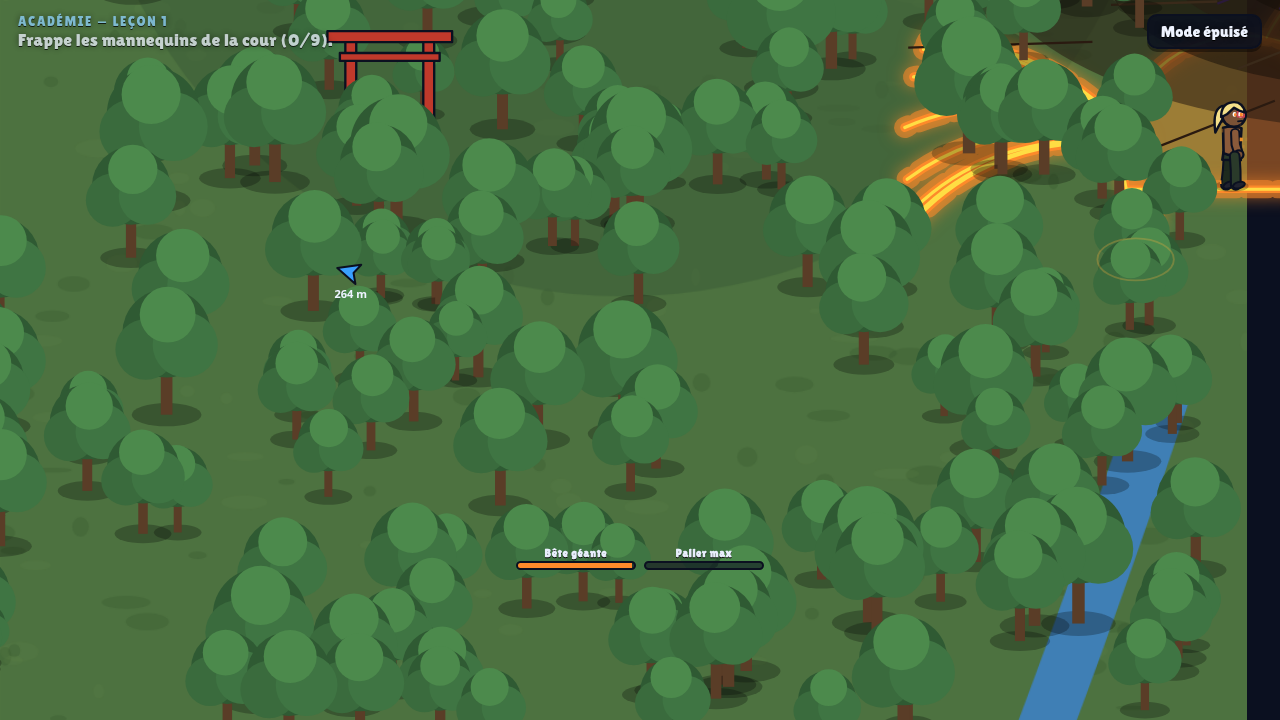
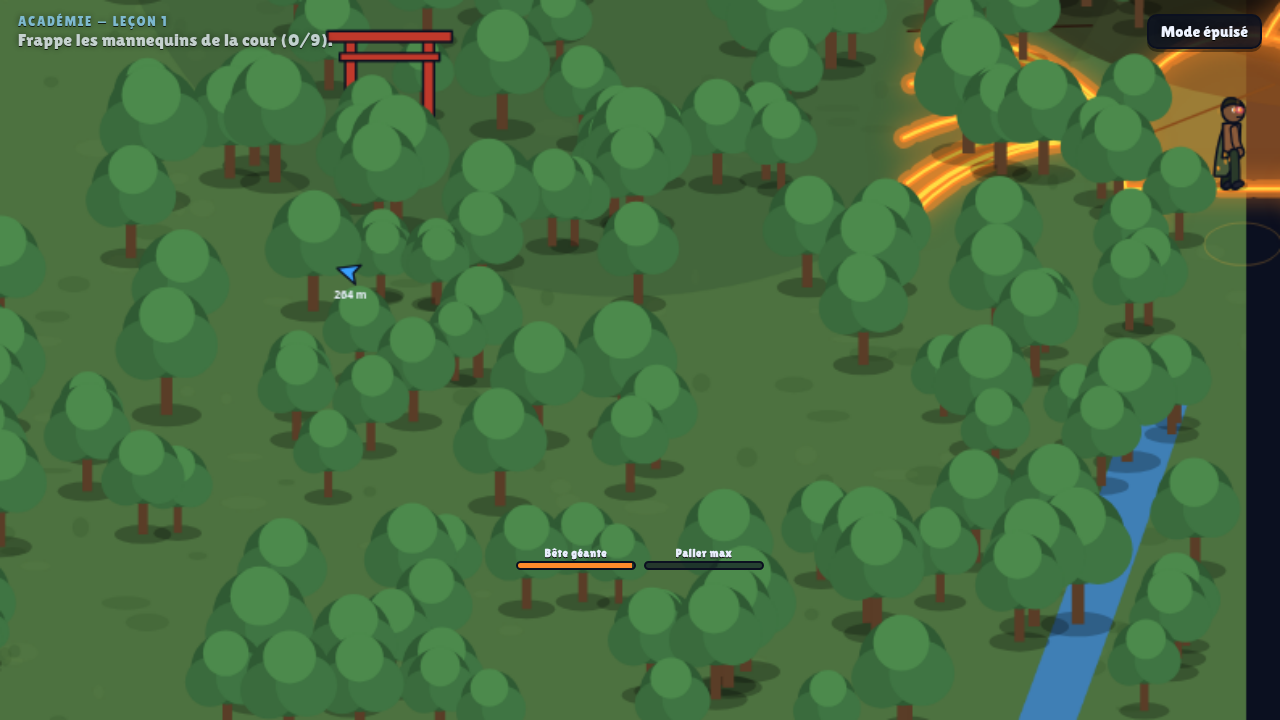
v0.9.2: Susanoo visual rework

diff --git a/index.html b/index.html
@@ -104,7 +104,7 @@ button.b.p{background:var(--gold);color:var(--ink)}button.b.p2{background:var(--
 <script>
 'use strict';
 /* ============ Noyau : réglages, sauvegarde, entrées, audio ============ */
-const VERSION = '0.9.1';
+const VERSION = '0.9.2';
 const $ = (s) => document.querySelector(s);
 const TAU = Math.PI * 2, clamp = (v, a, b) => (v < a ? a : v > b ? b : v), lerp = (a, b, t) => a + (b - a) * t;
 const rnd = (a, b) => a + Math.random() * (b - a), pick = (a) => a[(Math.random() * a.length) | 0];
@@ -2277,12 +2277,12 @@ addEventListener('touchstart',()=>document.body.classList.add('touch07'),{passiv
     const tl = P2(); for (let i = 0; i < 9; i++) { const a = -2.2 - i * 0.12 + Math.sin(t * 2 + i) * 0.12; tl.moveTo(-80, -40); tl.quadraticCurveTo(-80 + Math.cos(a) * 120, -40 + Math.sin(a) * 120, -80 + Math.cos(a - 0.4) * 200, -40 + Math.sin(a - 0.4) * 200); } flameOutline(g, tl, c, t, 7);
     const lg = P2(); lg.moveTo(-60, 0); lg.lineTo(-70, 40); lg.moveTo(60, 0); lg.lineTo(75, 40); flameOutline(g, lg, c, t, 6); g.restore(); };
   // dessin dans le monde, derrière le héros
-  FX.custom({ x: 0, y: 0, life: 1e9, ground: 1, draw: (g) => { const h = Game.hero; if (!h || !h.md || h.hp <= 0) return; const M = h.md, S = F[M.fam].st[M.st - 1]; h.susSw = Math.max(0, (h.susSw || 0) - 0.06); const sw = h.susSw ? Math.sin((1 - h.susSw) * Math.PI) : 0;
-    if (S.sus) drawSusanoo(g, h.x, h.y + 4, S.sus, M.col, { t: Game.t, build: M.build, sw, face: Math.cos(h.aimA || 0) < 0 ? -1 : 1 });
+  FX.custom({ x: 0, y: 0, life: 1e9, ground: 2, draw: (g) => { const h = Game.hero; if (!h || !h.md || h.hp <= 0) return; const M = h.md, S = F[M.fam].st[M.st - 1]; h.susSw = Math.max(0, (h.susSw || 0) - 0.06); const sw = h.susSw ? Math.sin((1 - h.susSw) * Math.PI) : 0;
+    if (S.sus) MODE08.drawSusanoo(g, h.x, h.y + 4, S.sus, M.col, { t: Game.t, build: M.build, sw, face: Math.cos(h.aimA || 0) < 0 ? -1 : 1 });
     else if (S.beast) drawBeast(g, h.x, h.y + 4, M.col, { t: Game.t, build: M.build, face: Math.cos(h.aimA || 0) < 0 ? -1 : 1 });
     else if (Math.random() < 0.4) FX.add({ k: 'spark', x: h.x + rnd(-22, 22), y: h.y - rnd(0, 70), vx: 0, vy: -120, c: M.col === '#2a2a3a' ? PUR : M.col, s: 2.5, life: 0.45, g: -60 }); } });
   // Susanoo de Sarada (ultime allié) redessiné
-  ULT_FX.susanoo = (u, tx, ty, P) => { const c = u.isHero ? MODE08.susCol() : '#ff4a6a'; let sw = 0; FX.custom({ x: u.x, y: u.y, life: 2.2, ground: 1, draw: (g, p, q) => { sw = q > 0.5 && q < 0.8 ? Math.sin((q - 0.5) / 0.3 * Math.PI) : 0; drawSusanoo(g, u.x, u.y + 4, 4, c, { t: Game.t, build: Math.min(1, q * 2.5), sw, face: tx < u.x ? -1 : 1 }); } });
+  ULT_FX.susanoo = (u, tx, ty, P) => { const c = u.isHero ? MODE08.susCol() : '#ff4a6a'; let sw = 0; FX.custom({ x: u.x, y: u.y, life: 2.2, ground: 2, draw: (g, p, q) => { sw = q > 0.5 && q < 0.8 ? Math.sin((q - 0.5) / 0.3 * Math.PI) : 0; MODE08.drawSusanoo(g, u.x, u.y + 4, 4, c, { t: Game.t, build: Math.min(1, q * 2.5), sw, face: tx < u.x ? -1 : 1 }); } });
     Game.later(1.3, () => { aoe(tx, ty, 200, 70 * P, u, { el: 'yin', k: 2, big: 1 }); FX.shock(tx, ty, c, 200, 0.5, 10); Cam.shake(0.35); }); };
   // ---------- tactile : glisser sur l’arc / bouton page ----------
   let sx = null; addEventListener('touchstart', (e) => { const tt = e.target; if (tt && tt.closest && tt.closest('#touch')) sx = e.touches[0].clientX; }, { passive: true });
@@ -2928,7 +2928,8 @@ addEventListener('touchstart',()=>document.body.classList.add('touch07'),{passiv
   const baseDraw = FX.draw.bind(FX);
   FX.draw = function (g, layer) { view(); STATS.drawn = 0; STATS.culled = 0; STATS.batches = 0; for (const a of BUCK.values()) a.length = 0;
     const P = this.P; const lo = Q9.tier === 0;
-    for (let i = 0; i < P.length; i++) { const p = P[i]; const gl = p.k === 'puddle' || p.ground || p.k === 'decal'; if (layer === 0 && !gl) continue; if (layer === 1 && gl) continue;
+    for (let pass = 0; pass < (layer === 0 ? 2 : 1); pass++)
+    for (let i = 0; i < P.length; i++) { const p = P[i]; if (layer === 0 && (p.ground === 2) !== (pass === 1)) continue; const gl = p.k === 'puddle' || p.ground || p.k === 'decal'; if (layer === 0 && !gl) continue; if (layer === 1 && gl) continue;
       if (CULL[p.k] && (p.x < VX0 || p.x > VX1 || p.y < VY0 || p.y > VY1)) { STATS.culled++; continue; }
       STATS.drawn++; const q = p.t / p.life, al = 1 - q;
       switch (p.k) {
@@ -3178,5 +3179,106 @@ addEventListener('touchstart',()=>document.body.classList.add('touch07'),{passiv
   function PRE(e) { return VFX9.PRESET[e] ? e : 'none'; }
   MODE08 && (MODE08.defFamily = (id, fam) => { MODE08.F[id] = fam; });
 })();
+
+// v0.9 — Susanoo redessiné : flammes de chakra translucides au bord mouvant, vraie anatomie (côtes, crâne, radius/cubitus),
+// humanoïde au visage de tengu, plaques d’armure, épaulières, casque à cimier, magatama, noyau lumineux, assemblage progressif,
+// scintillement des flammes au repos, rubans de l’épée, bouclier de Yata. Formes précalculées une fois (aucune allocation par image).
+(() => { if (!window.MODE08) return;
+  const TAU2 = Math.PI * 2, cl = (v) => Math.max(0, Math.min(1, v));
+  const ca = (c, a) => VFX9.ca(c, a), W = (c, k) => VFX9.mixW(c, k);
+  // --- géométrie ---
+  const bez = (p0, p1, p2, p3, n = 10) => { const o = []; for (let i = 0; i <= n; i++) { const t = i / n, u = 1 - t; o.push([u * u * u * p0[0] + 3 * u * u * t * p1[0] + 3 * u * t * t * p2[0] + t * t * t * p3[0], u * u * u * p0[1] + 3 * u * u * t * p1[1] + 3 * u * t * t * p2[1] + t * t * t * p3[1]]); } return o; };
+  const ell = (cx, cy, rx, ry, a0 = 0, a1 = TAU2, n = 18) => { const o = []; for (let i = 0; i <= n; i++) { const a = a0 + (a1 - a0) * i / n; o.push([cx + Math.cos(a) * rx, cy + Math.sin(a) * ry]); } return o; };
+  const mir = (pts) => pts.map(([x, y]) => [-x, y]);
+  const prep = (P) => { let L = 0; const cum = [0]; for (let i = 1; i < P.pts.length; i++) { L += Math.hypot(P.pts[i][0] - P.pts[i - 1][0], P.pts[i][1] - P.pts[i - 1][1]); cum.push(L); } P.L = L; P.cum = cum;
+    // échantillons pour les flammes du bord (position + normale)
+    P.smp = []; if (P.fl) { const st = P.fl; for (let d = 0; d < L; d += st) { let i = 1; while (i < cum.length - 1 && cum[i] < d) i++; const a = P.pts[i - 1], b = P.pts[i], k = (d - cum[i - 1]) / ((cum[i] - cum[i - 1]) || 1); const x = a[0] + (b[0] - a[0]) * k, y = a[1] + (b[1] - a[1]) * k; let nx = -(b[1] - a[1]), ny = b[0] - a[0]; const nl = Math.hypot(nx, ny) || 1; nx /= nl; ny /= nl; if (P.out && (nx * (x - P.out[0]) + ny * (y - P.out[1])) < 0) { nx = -nx; ny = -ny; } P.smp.push([x, y, nx, ny, d / L]); } } return P; };
+  // une pièce = { pts, w (trait), fill (alpha), fl (pas des flammes), out (centre pour orienter les normales), s0/s1 (fenêtre d’assemblage), arm (pivot pour l’épée), kind }
+  const part = (o) => prep(Object.assign({ w: 4, s0: 0, s1: 0.2 }, o));
+  const BUILD = {};
+  const shapes = (lvl) => { if (BUILD[lvl]) return BUILD[lvl]; const A = [];
+    // 1 — cage thoracique : colonne, 7 paires de côtes, clavicules, bassin
+    A.push(part({ pts: bez([0, -10], [8, -70], [-8, -140], [0, -205], 14), w: 7, fl: 26, out: [0, -110], s0: 0, s1: 0.18 }));
+    [40, 58, 70, 76, 72, 62, 48].forEach((w, i) => { const y = -190 + i * 22; const R = bez([0, y], [w * 0.7, y - 16], [w * 1.05, y + 8], [w * 0.82, y + 30], 8); A.push(part({ pts: R, w: 5, fl: 30, out: [0, -110], s0: 0.06 + i * 0.03, s1: 0.2 + i * 0.03 })); A.push(part({ pts: mir(R), w: 5, fl: 30, out: [0, -110], s0: 0.06 + i * 0.03, s1: 0.2 + i * 0.03 })); });
+    A.push(part({ pts: [[-80, -206], [0, -198], [80, -206]], w: 6, fl: 30, out: [0, -120], s0: 0.2, s1: 0.32 }));
+    A.push(part({ pts: bez([-55, -10], [-60, 20], [60, 20], [55, -10], 10), w: 6, fl: 28, out: [0, -60], s0: 0.02, s1: 0.16 }));
+    if (lvl >= 2) { // 2 — squelette : crâne, mâchoire, dents, cervicales, bras à deux os, mains
+      A.push(part({ pts: ell(0, -240, 34, 38, Math.PI * 0.85, Math.PI * 2.15, 20), w: 5, fill: 0.14, fl: 18, out: [0, -240], s0: 0.3, s1: 0.45, kind: 'skull' }));
+      A.push(part({ pts: [[-26, -226], [-22, -206], [-10, -198], [10, -198], [22, -206], [26, -226]], w: 5, fl: 22, out: [0, -230], s0: 0.38, s1: 0.48 }));
+      for (let i = -2; i <= 2; i++) A.push(part({ pts: [[i * 7, -206], [i * 7, -198]], w: 2.5, s0: 0.45, s1: 0.5 }));
+      for (const s of [-1, 1]) { A.push(part({ pts: [[s * 78, -204], [s * 112, -150], [s * 124, -128]], w: 7, fl: 24, out: [s * 60, -160], s0: 0.32, s1: 0.45, arm: s })); A.push(part({ pts: [[s * 120, -128], [s * 136, -70]], w: 4.5, fl: 30, out: [s * 100, -100], s0: 0.42, s1: 0.52, arm: s })); A.push(part({ pts: [[s * 128, -126], [s * 124, -68]], w: 4, s0: 0.42, s1: 0.52, arm: s }));
+        for (let f = 0; f < 4; f++) A.push(part({ pts: [[s * 130, -66], [s * (128 + f * 5), -44 + (f % 2) * 4], [s * (130 + f * 6), -30]], w: 3, s0: 0.5, s1: 0.56, arm: s })); }
+    }
+    A.boneN = A.length;
+    if (lvl >= 3) { // 3 — humanoïde : chair spectrale, visage de tengu, sourcils, crocs, magatama
+      const torso = [[-108, -204], [-120, -150], [-104, -90], [-80, -40], [-60, 0], [60, 0], [80, -40], [104, -90], [120, -150], [108, -204], [60, -218], [-60, -218], [-108, -204]];
+      A.push(part({ pts: torso, w: 4, fill: 0.16, fl: 20, out: [0, -110], s0: 0.5, s1: 0.68, kind: 'flesh' }));
+      A.push(part({ pts: ell(0, -248, 40, 46, 0, TAU2, 24), w: 4, fill: 0.2, fl: 16, out: [0, -248], s0: 0.55, s1: 0.68, kind: 'face' }));
+      A.push(part({ pts: [[-2, -254], [62, -236], [4, -230]], w: 4, fill: 0.35, s0: 0.62, s1: 0.72, kind: 'nose' }));
+      A.push(part({ pts: [[-30, -268], [-8, -258]], w: 5, s0: 0.62, s1: 0.7 })); A.push(part({ pts: [[30, -268], [8, -258]], w: 5, s0: 0.62, s1: 0.7 }));
+      A.push(part({ pts: [[-14, -214], [-10, -200]], w: 3, s0: 0.66, s1: 0.72 })); A.push(part({ pts: [[14, -214], [10, -200]], w: 3, s0: 0.66, s1: 0.72 }));
+      A.push(part({ pts: bez([-60, -212], [-30, -180], [30, -180], [60, -212], 12), w: 2, s0: 0.66, s1: 0.74, kind: 'beads' }));
+      for (const s of [-1, 1]) A.push(part({ pts: [[s * 108, -204], [s * 140, -140], [s * 140, -80]], w: 18, fl: 22, out: [s * 90, -150], s0: 0.58, s1: 0.7, arm: s, kind: 'limb' }));
+    }
+    if (lvl >= 4) { // 4 — samouraï : plaques du dō, ōsode, casque kabuto à cimier (kuwagata), menpō, épée, bouclier de Yata
+      for (let i = 0; i < 4; i++) { const y = -170 + i * 30, w = 98 - i * 6; A.push(part({ pts: [[-w, y], [-w * 0.5, y + 10], [0, y + 12], [w * 0.5, y + 10], [w, y], [w, y + 24], [w * 0.5, y + 34], [0, y + 36], [-w * 0.5, y + 34], [-w, y + 24], [-w, y]], w: 3, fill: 0.3, s0: 0.68 + i * 0.03, s1: 0.78 + i * 0.03, kind: 'plate' })); }
+      for (const s of [-1, 1]) for (let l = 0; l < 3; l++) { const y = -214 + l * 22; A.push(part({ pts: [[s * 96, y], [s * 150, y + 8], [s * 156, y + 28], [s * 100, y + 22], [s * 96, y]], w: 3, fill: 0.34, s0: 0.72 + l * 0.02, s1: 0.82 + l * 0.02, kind: 'plate' })); }
+      A.push(part({ pts: ell(0, -262, 48, 34, Math.PI, TAU2, 16).concat([[48, -262], [-48, -262]]), w: 4, fill: 0.36, fl: 18, out: [0, -250], s0: 0.78, s1: 0.86, kind: 'plate' }));
+      A.push(part({ pts: bez([-14, -290], [-50, -330], [-80, -360], [-70, -410], 10), w: 6, fl: 16, out: [-20, -330], s0: 0.84, s1: 0.92 })); A.push(part({ pts: bez([14, -290], [50, -330], [80, -360], [70, -410], 10), w: 6, fl: 16, out: [20, -330], s0: 0.84, s1: 0.92 }));
+      A.push(part({ pts: [[0, -296], [-10, -318], [0, -340], [10, -318], [0, -296]], w: 3, fill: 0.5, s0: 0.86, s1: 0.92, kind: 'gem' }));
+      A.push(part({ pts: [[-34, -230], [-24, -216], [24, -216], [34, -230]], w: 4, s0: 0.8, s1: 0.86 }));
+    }
+    if (lvl >= 5) { // 5 — parfait : ailes à plumes, jupe de plaques (kusazuri), jambes, seconde paire d’yeux
+      for (const s of [-1, 1]) { for (let f = 0; f < 6; f++) { const a = -0.3 - f * 0.22; A.push(part({ pts: bez([s * 90, -190], [s * (160 + f * 14), -230 - f * 8], [s * (240 + f * 8), -180 + f * 6], [s * (210 + f * 16) + s * Math.cos(a) * 30, -60 + f * 26], 10), w: 5, fill: 0, fl: 22, out: [s * 90, -100], s0: 0.86 + f * 0.015, s1: 0.95 })); } }
+      for (let i = 0; i < 5; i++) { const x = -80 + i * 40; A.push(part({ pts: [[x - 20, -6], [x + 20, -6], [x + 24, 60], [x - 24, 60], [x - 20, -6]], w: 3, fill: 0.28, s0: 0.88, s1: 0.96, kind: 'plate' })); }
+    }
+    BUILD[lvl] = A; return A; };
+  // --- rendu ---
+  const strokePart = (g, P, r) => { const n = P.pts.length; if (r <= 0) return; const lim = P.L * r; g.beginPath(); g.moveTo(P.pts[0][0], P.pts[0][1]); for (let i = 1; i < n; i++) { if (P.cum[i] > lim) { const a = P.pts[i - 1], b = P.pts[i], k = (lim - P.cum[i - 1]) / ((P.cum[i] - P.cum[i - 1]) || 1); g.lineTo(a[0] + (b[0] - a[0]) * k, a[1] + (b[1] - a[1]) * k); break; } g.lineTo(P.pts[i][0], P.pts[i][1]); } };
+  const magatama = (g, x, y, r, a, c) => { g.save(); g.translate(x, y); g.rotate(a); g.fillStyle = c; g.beginPath(); g.arc(0, 0, r, 0, TAU2); g.fill(); g.beginPath(); g.moveTo(r, 0); g.quadraticCurveTo(r * 1.2, r * 1.6, -r * 0.3, r * 2.1); g.quadraticCurveTo(r * 0.4, r * 1.2, 0, r); g.fill(); g.restore(); };
+  MODE08.drawSusanoo = function (g, x, y, lvl, c, o = {}) { const t = o.t || 0, b = o.build == null ? 1 : o.build, sw = o.sw || 0, face = o.face || 1, K = lvl >= 5 ? 1.5 : 1 + (lvl - 1) * 0.05; const tier = window.Q9 ? Q9.tier : 2;
+    const A = shapes(lvl), light = W(c, 0.55), pale = W(c, 0.8), glow = SPR9.get('glow', c), lick = SPR9.get('lick', c), lickL = SPR9.get('lick', light);
+    g.save(); g.translate(x, y); g.scale(K * face, K); g.rotate(Math.sin(t * 1.4) * 0.02); g.lineCap = 'round'; g.lineJoin = 'round';
+    // aura extérieure (sprite) qui respire
+    const br = 1 + Math.sin(t * 3) * 0.04; g.globalCompositeOperation = 'lighter'; g.globalAlpha = 0.22 * cl(b * 2); g.drawImage(glow, -230 * br, -380 * br, 460 * br, 460 * br); g.globalAlpha = 0.25 * cl(b * 2); g.drawImage(glow, -150, -260, 300, 300);
+    const swA = -0.9 + sw * 2.4; // rotation du bras droit pendant le coup d’épée
+    const armT = (P) => P.arm === 1 && lvl >= 2;
+    // 1) remplissages translucides
+    g.globalCompositeOperation = 'source-over';
+    for (const P of A) { if (!P.fill) continue; const r = cl((b - P.s0) / (P.s1 - P.s0)); if (r <= 0) continue; if (armT(P)) { g.save(); g.translate(108, -204); g.rotate(swA * 0.5); g.translate(-108, 204); }
+      g.globalAlpha = P.fill * r; g.fillStyle = P.kind === 'plate' ? ca(c, 1) : ca(light, 1); g.beginPath(); for (let i = 0; i < P.pts.length; i++) i ? g.lineTo(P.pts[i][0], P.pts[i][1]) : g.moveTo(P.pts[i][0], P.pts[i][1]); g.closePath(); g.fill(); if (armT(P)) g.restore(); }
+    // 2) flammes de chakra du bord : langues orientées vers l’extérieur et vers le haut, qui scintillent
+    g.globalCompositeOperation = 'lighter'; const every = tier === 2 ? 1 : tier === 1 ? 2 : 3; let si = 0;
+    for (let pi = 0; pi < A.length; pi++) { const P = A[pi]; if (!P.smp.length || (lvl >= 3 && pi < A.boneN)) continue; const r = cl((b - P.s0) / (P.s1 - P.s0)); if (r <= 0) continue; const rot = armT(P); if (rot) { g.save(); g.translate(108, -204); g.rotate(swA * 0.5); g.translate(-108, 204); }
+      for (const [sx, sy, nx, ny, d] of P.smp) { if (d > r || (si++ % every)) continue; const fl = Math.sin(t * 9 + sx * 0.13 + sy * 0.07), L = (16 + 10 * fl) * (P.kind === 'face' ? 1.3 : 1), ang = Math.atan2(ny * 0.4 - 0.6, nx * 0.4);
+        g.save(); g.translate(sx + nx * 3, sy + ny * 3); g.rotate(ang + Math.PI / 2); g.globalAlpha = 0.32 + 0.2 * fl; g.drawImage(fl > 0.4 ? lickL : lick, -L * 0.4, -L * 1.2, L * 0.8, L * 1.5); g.restore(); }
+      if (rot) g.restore(); }
+    // 3) os / contours : trait coloré + cœur clair
+    const boneA = lvl >= 4 ? 0.22 : lvl >= 3 ? 0.4 : 1;
+    for (let pi = 0; pi < A.length; pi++) { const P = A[pi]; const r = cl((b - P.s0) / (P.s1 - P.s0)); if (r <= 0) continue; const rot = armT(P); if (rot) { g.save(); g.translate(108, -204); g.rotate(swA * 0.5); g.translate(-108, 204); } const ba = pi < A.boneN ? boneA : 1;
+      strokePart(g, P, r); if (P.fill && r >= 1) g.closePath(); g.globalAlpha = 0.7 * ba; g.strokeStyle = c; g.lineWidth = P.w + 3; g.stroke(); g.globalAlpha = 0.5 * ba; g.strokeStyle = P.kind === 'limb' ? light : pale; g.lineWidth = Math.max(1.2, P.w * 0.45); g.stroke();
+      if (P.kind === 'beads' && r >= 1) for (let i = 0; i < 5; i++) { const q = P.pts[2 + i * 2]; magatama(g, q[0], q[1] + 4, 5, 0.6 + i * 0.3, pale); }
+      if (rot) g.restore(); }
+    // yeux (crâne → orbites ; visage → fentes lumineuses)
+    if (lvl >= 2 && b > 0.45) { g.globalAlpha = cl((b - 0.45) * 5); g.fillStyle = lvl >= 3 ? '#ffffff' : pale; const ey = lvl >= 3 ? -252 : -242;
+      for (const s of [-1, 1]) { g.beginPath(); if (lvl >= 3) { g.moveTo(s * 26, ey - 4); g.lineTo(s * 8, ey + 2); g.lineTo(s * 24, ey + 4); } else g.ellipse(s * 13, ey, 8, 6, 0, 0, TAU2); g.fill(); g.drawImage(glow, s * 16 - 14, ey - 14, 28, 28); } if (lvl >= 5) { for (const s of [-1, 1]) { g.beginPath(); g.moveTo(s * 22, ey + 22); g.lineTo(s * 8, ey + 26); g.lineTo(s * 20, ey + 28); g.fill(); } } }
+    // épée de Totsuka (flamme) + ruban de taille
+    if (lvl >= 4 && b > 0.8) { const a2 = cl((b - 0.8) * 5); g.save(); g.translate(140, -80); g.rotate(0.35 + sw * 1.9 - (sw > 0 ? 1.6 * Math.sin(sw * Math.PI) : 0)); g.globalAlpha = a2; g.drawImage(glow, -40, -300, 80, 320);
+      g.fillStyle = ca(light, 0.75); g.beginPath(); g.moveTo(-8, 0); g.lineTo(-10, -240); g.quadraticCurveTo(0, -290, 10, -240); g.lineTo(8, 0); g.closePath(); g.fill(); g.strokeStyle = pale; g.lineWidth = 2; g.stroke();
+      for (let i = 0; i < (tier ? 8 : 4); i++) { const yy = -30 - i * 28, L = 18 + 8 * Math.sin(t * 10 + i); g.save(); g.translate(i % 2 ? 9 : -9, yy); g.rotate(i % 2 ? 0.5 : -0.5); g.drawImage(lickL, -L * 0.4, -L * 1.3, L * 0.8, L * 1.5); g.restore(); }
+      g.fillStyle = c; g.fillRect(-18, -4, 36, 8); g.restore();
+      if (sw > 0.02) { for (let k = 0; k < (tier ? 5 : 3); k++) { const a0 = -2.8 + sw * 1.4, a1 = -1.2 + sw * 2.6 - k * 0.12; g.globalAlpha = 0.35 * sw * (1 - k / 5); g.strokeStyle = k ? c : light; g.lineWidth = 26 * sw * (1 - k / 6); g.beginPath(); g.arc(140, -80, 250 - k * 6, a0, a1); g.stroke(); } } }
+    // bouclier de Yata : miroir octogonal, anneaux, tomoe tournants
+    if (lvl >= 4 && b > 0.85) { const a3 = cl((b - 0.85) * 6), sx = -150, sy = -110; g.globalAlpha = 0.5 * a3; g.drawImage(SPR9.get('glow', '#ffd166'), sx - 80, sy - 80, 160, 160); g.globalAlpha = 0.8 * a3;
+      g.fillStyle = 'rgba(255,220,140,.22)'; g.strokeStyle = '#ffe9a8'; g.lineWidth = 4; g.beginPath(); for (let i = 0; i < 8; i++) { const a = i / 8 * TAU2 + Math.PI / 8; g.lineTo(sx + Math.cos(a) * 58, sy + Math.sin(a) * 58); } g.closePath(); g.fill(); g.stroke();
+      g.lineWidth = 2; for (const rr of [44, 30]) { g.beginPath(); g.arc(sx, sy, rr, 0, TAU2); g.stroke(); } for (let i = 0; i < 3; i++) magatama(g, sx + Math.cos(t * 2 + i * TAU2 / 3) * 18, sy + Math.sin(t * 2 + i * TAU2 / 3) * 18, 6, t * 2 + i * TAU2 / 3, '#fff3c0'); }
+    // Yasaka no Magatama en orbite (palier 3+) et noyau intérieur lumineux autour du porteur
+    if (lvl >= 3 && b > 0.7) { g.globalAlpha = 0.85 * cl((b - 0.7) * 4); for (let i = 0; i < 3; i++) { const a = t * 1.6 + i * TAU2 / 3; magatama(g, Math.cos(a) * 150, -150 + Math.sin(a) * 34, 9, a * 2, pale); } }
+    g.globalAlpha = 0.55 + 0.15 * Math.sin(t * 5); g.drawImage(SPR9.get('core', c), -46, -96, 92, 92); g.globalAlpha = 0.5; g.strokeStyle = pale; g.lineWidth = 2; g.beginPath(); g.ellipse(0, -50, 40 + Math.sin(t * 4) * 3, 52, 0, 0, TAU2); g.stroke();
+    // assemblage : éclats qui convergent pendant la construction
+    if (b < 1 && Math.random() < 0.6) FX.add({ k: 'sp', spr: 'ember', c: pale, x: x + (Math.random() - 0.5) * 300 * K, y: y - Math.random() * 300 * K, vx: 0, vy: 0, s: 3 + Math.random() * 3, life: 0.35, add: 1 });
+    g.restore(); g.globalAlpha = 1; g.globalCompositeOperation = 'source-over'; };
+})();
+(() => { if (!window.MODE08) return; const st = MODE08.stage.bind(MODE08); MODE08.stage = function (h, n) { const r = st(h, n); try { const M = h.md, S = M && MODE08.F[M.fam].st[M.st - 1]; if (S && S.sus && !S.giant) Cam.tz = S.sus >= 4 ? 0.72 : S.sus >= 3 ? 0.8 : 0.9; } catch (e) {} return r; }; })();
 
 </script></body></html>

diff --git a/src/8r_susanoo9.js b/src/8r_susanoo9.js
@@ -1,0 +1,100 @@
+// v0.9 — Susanoo redessiné : flammes de chakra translucides au bord mouvant, vraie anatomie (côtes, crâne, radius/cubitus),
+// humanoïde au visage de tengu, plaques d’armure, épaulières, casque à cimier, magatama, noyau lumineux, assemblage progressif,
+// scintillement des flammes au repos, rubans de l’épée, bouclier de Yata. Formes précalculées une fois (aucune allocation par image).
+(() => { if (!window.MODE08) return;
+  const TAU2 = Math.PI * 2, cl = (v) => Math.max(0, Math.min(1, v));
+  const ca = (c, a) => VFX9.ca(c, a), W = (c, k) => VFX9.mixW(c, k);
+  // --- géométrie ---
+  const bez = (p0, p1, p2, p3, n = 10) => { const o = []; for (let i = 0; i <= n; i++) { const t = i / n, u = 1 - t; o.push([u * u * u * p0[0] + 3 * u * u * t * p1[0] + 3 * u * t * t * p2[0] + t * t * t * p3[0], u * u * u * p0[1] + 3 * u * u * t * p1[1] + 3 * u * t * t * p2[1] + t * t * t * p3[1]]); } return o; };
+  const ell = (cx, cy, rx, ry, a0 = 0, a1 = TAU2, n = 18) => { const o = []; for (let i = 0; i <= n; i++) { const a = a0 + (a1 - a0) * i / n; o.push([cx + Math.cos(a) * rx, cy + Math.sin(a) * ry]); } return o; };
+  const mir = (pts) => pts.map(([x, y]) => [-x, y]);
+  const prep = (P) => { let L = 0; const cum = [0]; for (let i = 1; i < P.pts.length; i++) { L += Math.hypot(P.pts[i][0] - P.pts[i - 1][0], P.pts[i][1] - P.pts[i - 1][1]); cum.push(L); } P.L = L; P.cum = cum;
+    // échantillons pour les flammes du bord (position + normale)
+    P.smp = []; if (P.fl) { const st = P.fl; for (let d = 0; d < L; d += st) { let i = 1; while (i < cum.length - 1 && cum[i] < d) i++; const a = P.pts[i - 1], b = P.pts[i], k = (d - cum[i - 1]) / ((cum[i] - cum[i - 1]) || 1); const x = a[0] + (b[0] - a[0]) * k, y = a[1] + (b[1] - a[1]) * k; let nx = -(b[1] - a[1]), ny = b[0] - a[0]; const nl = Math.hypot(nx, ny) || 1; nx /= nl; ny /= nl; if (P.out && (nx * (x - P.out[0]) + ny * (y - P.out[1])) < 0) { nx = -nx; ny = -ny; } P.smp.push([x, y, nx, ny, d / L]); } } return P; };
+  // une pièce = { pts, w (trait), fill (alpha), fl (pas des flammes), out (centre pour orienter les normales), s0/s1 (fenêtre d’assemblage), arm (pivot pour l’épée), kind }
+  const part = (o) => prep(Object.assign({ w: 4, s0: 0, s1: 0.2 }, o));
+  const BUILD = {};
+  const shapes = (lvl) => { if (BUILD[lvl]) return BUILD[lvl]; const A = [];
+    // 1 — cage thoracique : colonne, 7 paires de côtes, clavicules, bassin
+    A.push(part({ pts: bez([0, -10], [8, -70], [-8, -140], [0, -205], 14), w: 7, fl: 26, out: [0, -110], s0: 0, s1: 0.18 }));
+    [40, 58, 70, 76, 72, 62, 48].forEach((w, i) => { const y = -190 + i * 22; const R = bez([0, y], [w * 0.7, y - 16], [w * 1.05, y + 8], [w * 0.82, y + 30], 8); A.push(part({ pts: R, w: 5, fl: 30, out: [0, -110], s0: 0.06 + i * 0.03, s1: 0.2 + i * 0.03 })); A.push(part({ pts: mir(R), w: 5, fl: 30, out: [0, -110], s0: 0.06 + i * 0.03, s1: 0.2 + i * 0.03 })); });
+    A.push(part({ pts: [[-80, -206], [0, -198], [80, -206]], w: 6, fl: 30, out: [0, -120], s0: 0.2, s1: 0.32 }));
+    A.push(part({ pts: bez([-55, -10], [-60, 20], [60, 20], [55, -10], 10), w: 6, fl: 28, out: [0, -60], s0: 0.02, s1: 0.16 }));
+    if (lvl >= 2) { // 2 — squelette : crâne, mâchoire, dents, cervicales, bras à deux os, mains
+      A.push(part({ pts: ell(0, -240, 34, 38, Math.PI * 0.85, Math.PI * 2.15, 20), w: 5, fill: 0.14, fl: 18, out: [0, -240], s0: 0.3, s1: 0.45, kind: 'skull' }));
+      A.push(part({ pts: [[-26, -226], [-22, -206], [-10, -198], [10, -198], [22, -206], [26, -226]], w: 5, fl: 22, out: [0, -230], s0: 0.38, s1: 0.48 }));
+      for (let i = -2; i <= 2; i++) A.push(part({ pts: [[i * 7, -206], [i * 7, -198]], w: 2.5, s0: 0.45, s1: 0.5 }));
+      for (const s of [-1, 1]) { A.push(part({ pts: [[s * 78, -204], [s * 112, -150], [s * 124, -128]], w: 7, fl: 24, out: [s * 60, -160], s0: 0.32, s1: 0.45, arm: s })); A.push(part({ pts: [[s * 120, -128], [s * 136, -70]], w: 4.5, fl: 30, out: [s * 100, -100], s0: 0.42, s1: 0.52, arm: s })); A.push(part({ pts: [[s * 128, -126], [s * 124, -68]], w: 4, s0: 0.42, s1: 0.52, arm: s }));
+        for (let f = 0; f < 4; f++) A.push(part({ pts: [[s * 130, -66], [s * (128 + f * 5), -44 + (f % 2) * 4], [s * (130 + f * 6), -30]], w: 3, s0: 0.5, s1: 0.56, arm: s })); }
+    }
+    A.boneN = A.length;
+    if (lvl >= 3) { // 3 — humanoïde : chair spectrale, visage de tengu, sourcils, crocs, magatama
+      const torso = [[-108, -204], [-120, -150], [-104, -90], [-80, -40], [-60, 0], [60, 0], [80, -40], [104, -90], [120, -150], [108, -204], [60, -218], [-60, -218], [-108, -204]];
+      A.push(part({ pts: torso, w: 4, fill: 0.16, fl: 20, out: [0, -110], s0: 0.5, s1: 0.68, kind: 'flesh' }));
+      A.push(part({ pts: ell(0, -248, 40, 46, 0, TAU2, 24), w: 4, fill: 0.2, fl: 16, out: [0, -248], s0: 0.55, s1: 0.68, kind: 'face' }));
+      A.push(part({ pts: [[-2, -254], [62, -236], [4, -230]], w: 4, fill: 0.35, s0: 0.62, s1: 0.72, kind: 'nose' }));
+      A.push(part({ pts: [[-30, -268], [-8, -258]], w: 5, s0: 0.62, s1: 0.7 })); A.push(part({ pts: [[30, -268], [8, -258]], w: 5, s0: 0.62, s1: 0.7 }));
+      A.push(part({ pts: [[-14, -214], [-10, -200]], w: 3, s0: 0.66, s1: 0.72 })); A.push(part({ pts: [[14, -214], [10, -200]], w: 3, s0: 0.66, s1: 0.72 }));
+      A.push(part({ pts: bez([-60, -212], [-30, -180], [30, -180], [60, -212], 12), w: 2, s0: 0.66, s1: 0.74, kind: 'beads' }));
+      for (const s of [-1, 1]) A.push(part({ pts: [[s * 108, -204], [s * 140, -140], [s * 140, -80]], w: 18, fl: 22, out: [s * 90, -150], s0: 0.58, s1: 0.7, arm: s, kind: 'limb' }));
+    }
+    if (lvl >= 4) { // 4 — samouraï : plaques du dō, ōsode, casque kabuto à cimier (kuwagata), menpō, épée, bouclier de Yata
+      for (let i = 0; i < 4; i++) { const y = -170 + i * 30, w = 98 - i * 6; A.push(part({ pts: [[-w, y], [-w * 0.5, y + 10], [0, y + 12], [w * 0.5, y + 10], [w, y], [w, y + 24], [w * 0.5, y + 34], [0, y + 36], [-w * 0.5, y + 34], [-w, y + 24], [-w, y]], w: 3, fill: 0.3, s0: 0.68 + i * 0.03, s1: 0.78 + i * 0.03, kind: 'plate' })); }
+      for (const s of [-1, 1]) for (let l = 0; l < 3; l++) { const y = -214 + l * 22; A.push(part({ pts: [[s * 96, y], [s * 150, y + 8], [s * 156, y + 28], [s * 100, y + 22], [s * 96, y]], w: 3, fill: 0.34, s0: 0.72 + l * 0.02, s1: 0.82 + l * 0.02, kind: 'plate' })); }
+      A.push(part({ pts: ell(0, -262, 48, 34, Math.PI, TAU2, 16).concat([[48, -262], [-48, -262]]), w: 4, fill: 0.36, fl: 18, out: [0, -250], s0: 0.78, s1: 0.86, kind: 'plate' }));
+      A.push(part({ pts: bez([-14, -290], [-50, -330], [-80, -360], [-70, -410], 10), w: 6, fl: 16, out: [-20, -330], s0: 0.84, s1: 0.92 })); A.push(part({ pts: bez([14, -290], [50, -330], [80, -360], [70, -410], 10), w: 6, fl: 16, out: [20, -330], s0: 0.84, s1: 0.92 }));
+      A.push(part({ pts: [[0, -296], [-10, -318], [0, -340], [10, -318], [0, -296]], w: 3, fill: 0.5, s0: 0.86, s1: 0.92, kind: 'gem' }));
+      A.push(part({ pts: [[-34, -230], [-24, -216], [24, -216], [34, -230]], w: 4, s0: 0.8, s1: 0.86 }));
+    }
+    if (lvl >= 5) { // 5 — parfait : ailes à plumes, jupe de plaques (kusazuri), jambes, seconde paire d’yeux
+      for (const s of [-1, 1]) { for (let f = 0; f < 6; f++) { const a = -0.3 - f * 0.22; A.push(part({ pts: bez([s * 90, -190], [s * (160 + f * 14), -230 - f * 8], [s * (240 + f * 8), -180 + f * 6], [s * (210 + f * 16) + s * Math.cos(a) * 30, -60 + f * 26], 10), w: 5, fill: 0, fl: 22, out: [s * 90, -100], s0: 0.86 + f * 0.015, s1: 0.95 })); } }
+      for (let i = 0; i < 5; i++) { const x = -80 + i * 40; A.push(part({ pts: [[x - 20, -6], [x + 20, -6], [x + 24, 60], [x - 24, 60], [x - 20, -6]], w: 3, fill: 0.28, s0: 0.88, s1: 0.96, kind: 'plate' })); }
+    }
+    BUILD[lvl] = A; return A; };
+  // --- rendu ---
+  const strokePart = (g, P, r) => { const n = P.pts.length; if (r <= 0) return; const lim = P.L * r; g.beginPath(); g.moveTo(P.pts[0][0], P.pts[0][1]); for (let i = 1; i < n; i++) { if (P.cum[i] > lim) { const a = P.pts[i - 1], b = P.pts[i], k = (lim - P.cum[i - 1]) / ((P.cum[i] - P.cum[i - 1]) || 1); g.lineTo(a[0] + (b[0] - a[0]) * k, a[1] + (b[1] - a[1]) * k); break; } g.lineTo(P.pts[i][0], P.pts[i][1]); } };
+  const magatama = (g, x, y, r, a, c) => { g.save(); g.translate(x, y); g.rotate(a); g.fillStyle = c; g.beginPath(); g.arc(0, 0, r, 0, TAU2); g.fill(); g.beginPath(); g.moveTo(r, 0); g.quadraticCurveTo(r * 1.2, r * 1.6, -r * 0.3, r * 2.1); g.quadraticCurveTo(r * 0.4, r * 1.2, 0, r); g.fill(); g.restore(); };
+  MODE08.drawSusanoo = function (g, x, y, lvl, c, o = {}) { const t = o.t || 0, b = o.build == null ? 1 : o.build, sw = o.sw || 0, face = o.face || 1, K = lvl >= 5 ? 1.5 : 1 + (lvl - 1) * 0.05; const tier = window.Q9 ? Q9.tier : 2;
+    const A = shapes(lvl), light = W(c, 0.55), pale = W(c, 0.8), glow = SPR9.get('glow', c), lick = SPR9.get('lick', c), lickL = SPR9.get('lick', light);
+    g.save(); g.translate(x, y); g.scale(K * face, K); g.rotate(Math.sin(t * 1.4) * 0.02); g.lineCap = 'round'; g.lineJoin = 'round';
+    // aura extérieure (sprite) qui respire
+    const br = 1 + Math.sin(t * 3) * 0.04; g.globalCompositeOperation = 'lighter'; g.globalAlpha = 0.22 * cl(b * 2); g.drawImage(glow, -230 * br, -380 * br, 460 * br, 460 * br); g.globalAlpha = 0.25 * cl(b * 2); g.drawImage(glow, -150, -260, 300, 300);
+    const swA = -0.9 + sw * 2.4; // rotation du bras droit pendant le coup d’épée
+    const armT = (P) => P.arm === 1 && lvl >= 2;
+    // 1) remplissages translucides
+    g.globalCompositeOperation = 'source-over';
+    for (const P of A) { if (!P.fill) continue; const r = cl((b - P.s0) / (P.s1 - P.s0)); if (r <= 0) continue; if (armT(P)) { g.save(); g.translate(108, -204); g.rotate(swA * 0.5); g.translate(-108, 204); }
+      g.globalAlpha = P.fill * r; g.fillStyle = P.kind === 'plate' ? ca(c, 1) : ca(light, 1); g.beginPath(); for (let i = 0; i < P.pts.length; i++) i ? g.lineTo(P.pts[i][0], P.pts[i][1]) : g.moveTo(P.pts[i][0], P.pts[i][1]); g.closePath(); g.fill(); if (armT(P)) g.restore(); }
+    // 2) flammes de chakra du bord : langues orientées vers l’extérieur et vers le haut, qui scintillent
+    g.globalCompositeOperation = 'lighter'; const every = tier === 2 ? 1 : tier === 1 ? 2 : 3; let si = 0;
+    for (let pi = 0; pi < A.length; pi++) { const P = A[pi]; if (!P.smp.length || (lvl >= 3 && pi < A.boneN)) continue; const r = cl((b - P.s0) / (P.s1 - P.s0)); if (r <= 0) continue; const rot = armT(P); if (rot) { g.save(); g.translate(108, -204); g.rotate(swA * 0.5); g.translate(-108, 204); }
+      for (const [sx, sy, nx, ny, d] of P.smp) { if (d > r || (si++ % every)) continue; const fl = Math.sin(t * 9 + sx * 0.13 + sy * 0.07), L = (16 + 10 * fl) * (P.kind === 'face' ? 1.3 : 1), ang = Math.atan2(ny * 0.4 - 0.6, nx * 0.4);
+        g.save(); g.translate(sx + nx * 3, sy + ny * 3); g.rotate(ang + Math.PI / 2); g.globalAlpha = 0.32 + 0.2 * fl; g.drawImage(fl > 0.4 ? lickL : lick, -L * 0.4, -L * 1.2, L * 0.8, L * 1.5); g.restore(); }
+      if (rot) g.restore(); }
+    // 3) os / contours : trait coloré + cœur clair
+    const boneA = lvl >= 4 ? 0.22 : lvl >= 3 ? 0.4 : 1;
+    for (let pi = 0; pi < A.length; pi++) { const P = A[pi]; const r = cl((b - P.s0) / (P.s1 - P.s0)); if (r <= 0) continue; const rot = armT(P); if (rot) { g.save(); g.translate(108, -204); g.rotate(swA * 0.5); g.translate(-108, 204); } const ba = pi < A.boneN ? boneA : 1;
+      strokePart(g, P, r); if (P.fill && r >= 1) g.closePath(); g.globalAlpha = 0.7 * ba; g.strokeStyle = c; g.lineWidth = P.w + 3; g.stroke(); g.globalAlpha = 0.5 * ba; g.strokeStyle = P.kind === 'limb' ? light : pale; g.lineWidth = Math.max(1.2, P.w * 0.45); g.stroke();
+      if (P.kind === 'beads' && r >= 1) for (let i = 0; i < 5; i++) { const q = P.pts[2 + i * 2]; magatama(g, q[0], q[1] + 4, 5, 0.6 + i * 0.3, pale); }
+      if (rot) g.restore(); }
+    // yeux (crâne → orbites ; visage → fentes lumineuses)
+    if (lvl >= 2 && b > 0.45) { g.globalAlpha = cl((b - 0.45) * 5); g.fillStyle = lvl >= 3 ? '#ffffff' : pale; const ey = lvl >= 3 ? -252 : -242;
+      for (const s of [-1, 1]) { g.beginPath(); if (lvl >= 3) { g.moveTo(s * 26, ey - 4); g.lineTo(s * 8, ey + 2); g.lineTo(s * 24, ey + 4); } else g.ellipse(s * 13, ey, 8, 6, 0, 0, TAU2); g.fill(); g.drawImage(glow, s * 16 - 14, ey - 14, 28, 28); } if (lvl >= 5) { for (const s of [-1, 1]) { g.beginPath(); g.moveTo(s * 22, ey + 22); g.lineTo(s * 8, ey + 26); g.lineTo(s * 20, ey + 28); g.fill(); } } }
+    // épée de Totsuka (flamme) + ruban de taille
+    if (lvl >= 4 && b > 0.8) { const a2 = cl((b - 0.8) * 5); g.save(); g.translate(140, -80); g.rotate(0.35 + sw * 1.9 - (sw > 0 ? 1.6 * Math.sin(sw * Math.PI) : 0)); g.globalAlpha = a2; g.drawImage(glow, -40, -300, 80, 320);
+      g.fillStyle = ca(light, 0.75); g.beginPath(); g.moveTo(-8, 0); g.lineTo(-10, -240); g.quadraticCurveTo(0, -290, 10, -240); g.lineTo(8, 0); g.closePath(); g.fill(); g.strokeStyle = pale; g.lineWidth = 2; g.stroke();
+      for (let i = 0; i < (tier ? 8 : 4); i++) { const yy = -30 - i * 28, L = 18 + 8 * Math.sin(t * 10 + i); g.save(); g.translate(i % 2 ? 9 : -9, yy); g.rotate(i % 2 ? 0.5 : -0.5); g.drawImage(lickL, -L * 0.4, -L * 1.3, L * 0.8, L * 1.5); g.restore(); }
+      g.fillStyle = c; g.fillRect(-18, -4, 36, 8); g.restore();
+      if (sw > 0.02) { for (let k = 0; k < (tier ? 5 : 3); k++) { const a0 = -2.8 + sw * 1.4, a1 = -1.2 + sw * 2.6 - k * 0.12; g.globalAlpha = 0.35 * sw * (1 - k / 5); g.strokeStyle = k ? c : light; g.lineWidth = 26 * sw * (1 - k / 6); g.beginPath(); g.arc(140, -80, 250 - k * 6, a0, a1); g.stroke(); } } }
+    // bouclier de Yata : miroir octogonal, anneaux, tomoe tournants
+    if (lvl >= 4 && b > 0.85) { const a3 = cl((b - 0.85) * 6), sx = -150, sy = -110; g.globalAlpha = 0.5 * a3; g.drawImage(SPR9.get('glow', '#ffd166'), sx - 80, sy - 80, 160, 160); g.globalAlpha = 0.8 * a3;
+      g.fillStyle = 'rgba(255,220,140,.22)'; g.strokeStyle = '#ffe9a8'; g.lineWidth = 4; g.beginPath(); for (let i = 0; i < 8; i++) { const a = i / 8 * TAU2 + Math.PI / 8; g.lineTo(sx + Math.cos(a) * 58, sy + Math.sin(a) * 58); } g.closePath(); g.fill(); g.stroke();
+      g.lineWidth = 2; for (const rr of [44, 30]) { g.beginPath(); g.arc(sx, sy, rr, 0, TAU2); g.stroke(); } for (let i = 0; i < 3; i++) magatama(g, sx + Math.cos(t * 2 + i * TAU2 / 3) * 18, sy + Math.sin(t * 2 + i * TAU2 / 3) * 18, 6, t * 2 + i * TAU2 / 3, '#fff3c0'); }
+    // Yasaka no Magatama en orbite (palier 3+) et noyau intérieur lumineux autour du porteur
+    if (lvl >= 3 && b > 0.7) { g.globalAlpha = 0.85 * cl((b - 0.7) * 4); for (let i = 0; i < 3; i++) { const a = t * 1.6 + i * TAU2 / 3; magatama(g, Math.cos(a) * 150, -150 + Math.sin(a) * 34, 9, a * 2, pale); } }
+    g.globalAlpha = 0.55 + 0.15 * Math.sin(t * 5); g.drawImage(SPR9.get('core', c), -46, -96, 92, 92); g.globalAlpha = 0.5; g.strokeStyle = pale; g.lineWidth = 2; g.beginPath(); g.ellipse(0, -50, 40 + Math.sin(t * 4) * 3, 52, 0, 0, TAU2); g.stroke();
+    // assemblage : éclats qui convergent pendant la construction
+    if (b < 1 && Math.random() < 0.6) FX.add({ k: 'sp', spr: 'ember', c: pale, x: x + (Math.random() - 0.5) * 300 * K, y: y - Math.random() * 300 * K, vx: 0, vy: 0, s: 3 + Math.random() * 3, life: 0.35, add: 1 });
+    g.restore(); g.globalAlpha = 1; g.globalCompositeOperation = 'source-over'; };
+})();
+(() => { if (!window.MODE08) return; const st = MODE08.stage.bind(MODE08); MODE08.stage = function (h, n) { const r = st(h, n); try { const M = h.md, S = M && MODE08.F[M.fam].st[M.st - 1]; if (S && S.sus && !S.giant) Cam.tz = S.sus >= 4 ? 0.72 : S.sus >= 3 ? 0.8 : 0.9; } catch (e) {} return r; }; })();

diff --git a/src/8g_modes.js b/src/8g_modes.js
@@ -211,12 +211,12 @@
     const tl = P2(); for (let i = 0; i < 9; i++) { const a = -2.2 - i * 0.12 + Math.sin(t * 2 + i) * 0.12; tl.moveTo(-80, -40); tl.quadraticCurveTo(-80 + Math.cos(a) * 120, -40 + Math.sin(a) * 120, -80 + Math.cos(a - 0.4) * 200, -40 + Math.sin(a - 0.4) * 200); } flameOutline(g, tl, c, t, 7);
     const lg = P2(); lg.moveTo(-60, 0); lg.lineTo(-70, 40); lg.moveTo(60, 0); lg.lineTo(75, 40); flameOutline(g, lg, c, t, 6); g.restore(); };
   // dessin dans le monde, derrière le héros
-  FX.custom({ x: 0, y: 0, life: 1e9, ground: 1, draw: (g) => { const h = Game.hero; if (!h || !h.md || h.hp <= 0) return; const M = h.md, S = F[M.fam].st[M.st - 1]; h.susSw = Math.max(0, (h.susSw || 0) - 0.06); const sw = h.susSw ? Math.sin((1 - h.susSw) * Math.PI) : 0;
-    if (S.sus) drawSusanoo(g, h.x, h.y + 4, S.sus, M.col, { t: Game.t, build: M.build, sw, face: Math.cos(h.aimA || 0) < 0 ? -1 : 1 });
+  FX.custom({ x: 0, y: 0, life: 1e9, ground: 2, draw: (g) => { const h = Game.hero; if (!h || !h.md || h.hp <= 0) return; const M = h.md, S = F[M.fam].st[M.st - 1]; h.susSw = Math.max(0, (h.susSw || 0) - 0.06); const sw = h.susSw ? Math.sin((1 - h.susSw) * Math.PI) : 0;
+    if (S.sus) MODE08.drawSusanoo(g, h.x, h.y + 4, S.sus, M.col, { t: Game.t, build: M.build, sw, face: Math.cos(h.aimA || 0) < 0 ? -1 : 1 });
     else if (S.beast) drawBeast(g, h.x, h.y + 4, M.col, { t: Game.t, build: M.build, face: Math.cos(h.aimA || 0) < 0 ? -1 : 1 });
     else if (Math.random() < 0.4) FX.add({ k: 'spark', x: h.x + rnd(-22, 22), y: h.y - rnd(0, 70), vx: 0, vy: -120, c: M.col === '#2a2a3a' ? PUR : M.col, s: 2.5, life: 0.45, g: -60 }); } });
   // Susanoo de Sarada (ultime allié) redessiné
-  ULT_FX.susanoo = (u, tx, ty, P) => { const c = u.isHero ? MODE08.susCol() : '#ff4a6a'; let sw = 0; FX.custom({ x: u.x, y: u.y, life: 2.2, ground: 1, draw: (g, p, q) => { sw = q > 0.5 && q < 0.8 ? Math.sin((q - 0.5) / 0.3 * Math.PI) : 0; drawSusanoo(g, u.x, u.y + 4, 4, c, { t: Game.t, build: Math.min(1, q * 2.5), sw, face: tx < u.x ? -1 : 1 }); } });
+  ULT_FX.susanoo = (u, tx, ty, P) => { const c = u.isHero ? MODE08.susCol() : '#ff4a6a'; let sw = 0; FX.custom({ x: u.x, y: u.y, life: 2.2, ground: 2, draw: (g, p, q) => { sw = q > 0.5 && q < 0.8 ? Math.sin((q - 0.5) / 0.3 * Math.PI) : 0; MODE08.drawSusanoo(g, u.x, u.y + 4, 4, c, { t: Game.t, build: Math.min(1, q * 2.5), sw, face: tx < u.x ? -1 : 1 }); } });
     Game.later(1.3, () => { aoe(tx, ty, 200, 70 * P, u, { el: 'yin', k: 2, big: 1 }); FX.shock(tx, ty, c, 200, 0.5, 10); Cam.shake(0.35); }); };
   // ---------- tactile : glisser sur l’arc / bouton page ----------
   let sx = null; addEventListener('touchstart', (e) => { const tt = e.target; if (tt && tt.closest && tt.closest('#touch')) sx = e.touches[0].clientX; }, { passive: true });

diff --git a/src/8p_vfx9.js b/src/8p_vfx9.js
@@ -48,7 +48,8 @@
   const baseDraw = FX.draw.bind(FX);
   FX.draw = function (g, layer) { view(); STATS.drawn = 0; STATS.culled = 0; STATS.batches = 0; for (const a of BUCK.values()) a.length = 0;
     const P = this.P; const lo = Q9.tier === 0;
-    for (let i = 0; i < P.length; i++) { const p = P[i]; const gl = p.k === 'puddle' || p.ground || p.k === 'decal'; if (layer === 0 && !gl) continue; if (layer === 1 && gl) continue;
+    for (let pass = 0; pass < (layer === 0 ? 2 : 1); pass++)
+    for (let i = 0; i < P.length; i++) { const p = P[i]; if (layer === 0 && (p.ground === 2) !== (pass === 1)) continue; const gl = p.k === 'puddle' || p.ground || p.k === 'decal'; if (layer === 0 && !gl) continue; if (layer === 1 && gl) continue;
       if (CULL[p.k] && (p.x < VX0 || p.x > VX1 || p.y < VY0 || p.y > VY1)) { STATS.culled++; continue; }
       STATS.drawn++; const q = p.t / p.life, al = 1 - q;
       switch (p.k) {

diff --git a/src/10_core.js b/src/10_core.js
@@ -1,6 +1,6 @@
 'use strict';
 /* ============ Noyau : réglages, sauvegarde, entrées, audio ============ */
-const VERSION = '0.9.1';
+const VERSION = '0.9.2';
 const $ = (s) => document.querySelector(s);
 const TAU = Math.PI * 2, clamp = (v, a, b) => (v < a ? a : v > b ? b : v), lerp = (a, b, t) => a + (b - a) * t;
 const rnd = (a, b) => a + Math.random() * (b - a), pick = (a) => a[(Math.random() * a.length) | 0];

diff --git a/PATCH_NOTES.md b/PATCH_NOTES.md
@@ -1,3 +1,11 @@
+# v0.9.2 — Susanoo redessiné
+- **Flammes de chakra translucides** au bord mouvant, qui scintillent même au repos.
+- **Anatomie réelle** : colonne, 7 paires de côtes, clavicules, crâne et mâchoire, bras à deux os et mains.
+- **Humanoïde** au visage de tengu : yeux en fente, crocs, collier de magatama.
+- **Samouraï** : plaques du plastron, épaulières, casque à cimier, épée de flammes avec rubans à chaque coup, bouclier de Yata.
+- **Susanoo parfait** : ailes à plumes, jupe de plaques et seconde paire d'yeux.
+- **Assemblage progressif** à chaque palier, noyau lumineux autour du porteur, couleur propre à chaque joueur, caméra qui recule selon la taille.
+
 # v0.9.1 — Techniques en données
 - Les techniques s'écrivent désormais comme un simple bloc de données : temps d'incantation et de récupération, animation, zone d'effet (projectile, cercle, cône, faisceau, ruée, pluie, mur, chaîne), couches d'effets, son et variantes.
 - 11 techniques intermédiaires refaites avec des effets en couches : Hōsenka, Karyū Endan (version maintenue : dragon de feu), Kamaitachi, Shinkūgyoku, Teppōdama, Raikyū, Raijū Tsuiga, Doryūdan, Haisekishō, Daitoppa, Nagashi.
